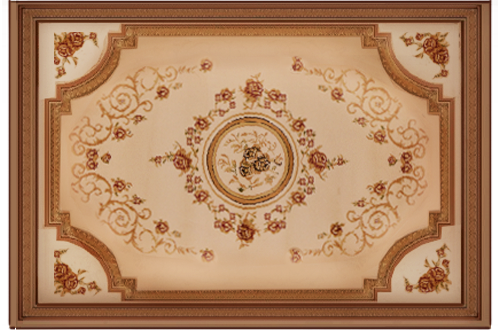
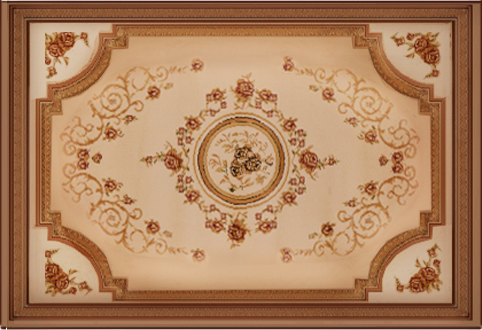
work checkpoint

diff --git a/Samples/WorkshopTutorial/authoring-index.html b/Samples/WorkshopTutorial/authoring-index.html
@@ -16,7 +16,7 @@
 </head>
 <body>
   <h1>Authoring Persistence Index</h1>
-  <p>Generated: 2026-09-16 14:57:48Z</p>
+  <p>Generated: 2026-09-19 22:25:20Z</p>
   <table>
     <thead><tr><th>Scope Path</th><th>Artifact Kind</th><th>File</th></tr></thead>
     <tbody>

diff --git a/Samples/WorkshopTutorial/GameRuntimeJson/runtime-index.html b/Samples/WorkshopTutorial/GameRuntimeJson/runtime-index.html
@@ -16,7 +16,7 @@
 </head>
 <body>
   <h1>Runtime Export Index</h1>
-  <p>Generated: 2026-09-16 14:57:48Z</p>
+  <p>Generated: 2026-09-19 22:25:20Z</p>
   <table>
     <thead><tr><th>Scope Path</th><th>Scope Kind</th><th>File</th></tr></thead>
     <tbody>
